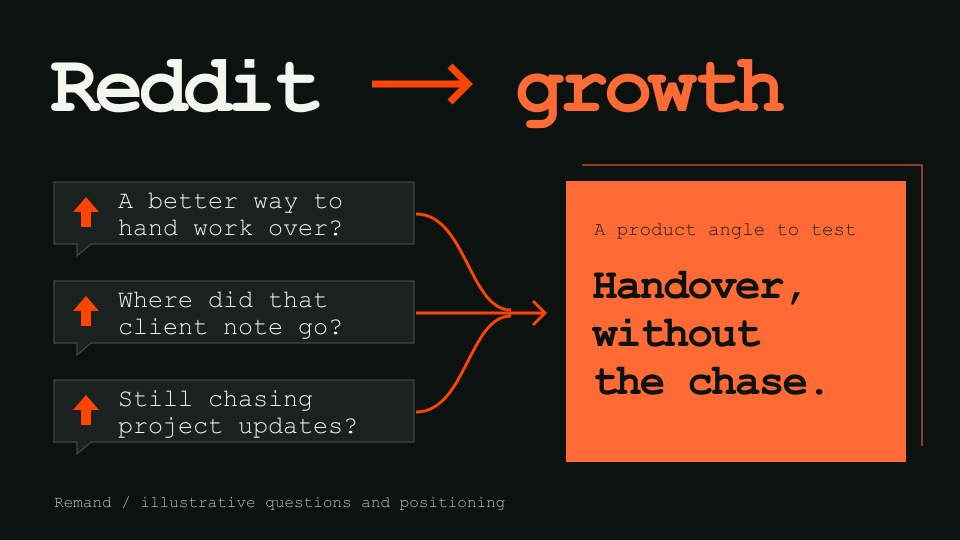
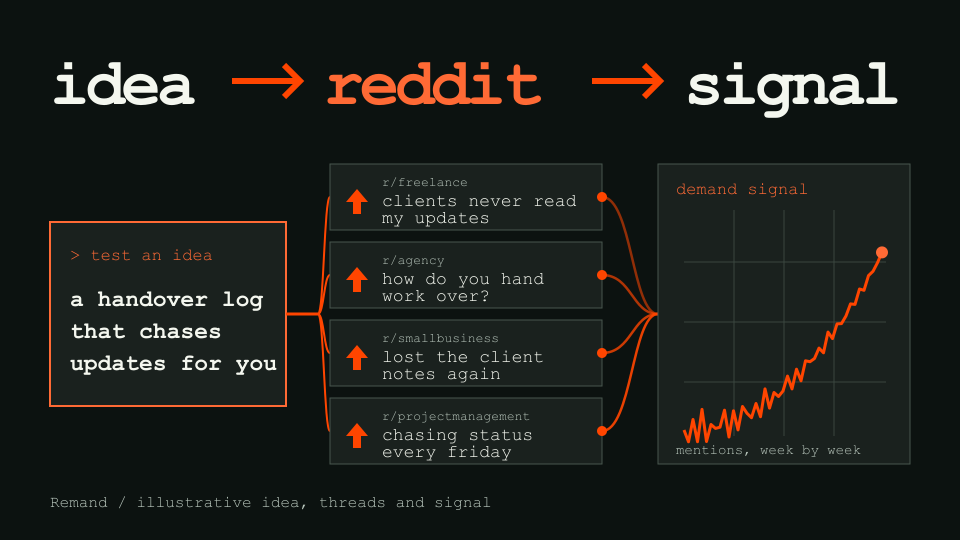
Show Remand the right way round: idea in, Reddit, signal out
The old card had Reddit questions converging on a positioning line, which
read the project backwards. Remand pushed an idea through the Reddit threads
where people already describe the problem and read the demand signal that came
back. The new card draws exactly that, left to right: the idea, four threads it
matches, and a trace that resolves from noise into a rising signal.

Still an authored illustration with no invented counts or percentages, and
captioned as illustrative. Tagline, bullet and alt text now say the same thing.

Changed region(s): [[0.0312, 0.2963, 0.9688, 0.8593], [0.0312, 0.0889, 0.9375, 0.237], [0.0625, 0.9185, 0.5312, 0.9481]]

diff --git a/content/projects.ts b/content/projects.ts
@@ -75,16 +75,16 @@ export const projects: Project[] = [
   {
     slug: "remand",
     title: "Remand",
-    tagline: "Finds the market demand hiding in online noise.",
+    tagline: "Push an idea through Reddit and read the signal that comes back.",
     role: "Full-stack / AI",
     year: "HackEurope 2026",
     bullets: [
-      "Semantic search over scattered discussion, with an agent that turns the signal into positioning.",
+      "Semantic search finds the threads where people already describe the problem, growth momentum shows whether interest is building, and an agent turns it into positioning.",
     ],
     stack: ["Next.js", "React 19", "FastAPI", "Supabase", "pgvector", "OpenAI", "Anthropic"],
     links: [{ label: "live", href: "https://nybblers.vercel.app" }],
     image: "/img/remand.png",
-    imageAlt: "Remand illustration: Reddit questions about lost notes and chasing updates converge on a positioning idea, Handover without the chase",
+    imageAlt: "Remand illustration: an idea is pushed through four Reddit threads about the same problem and comes out as a rising demand signal",
   },
   {
     slug: "under-the-campanile",
